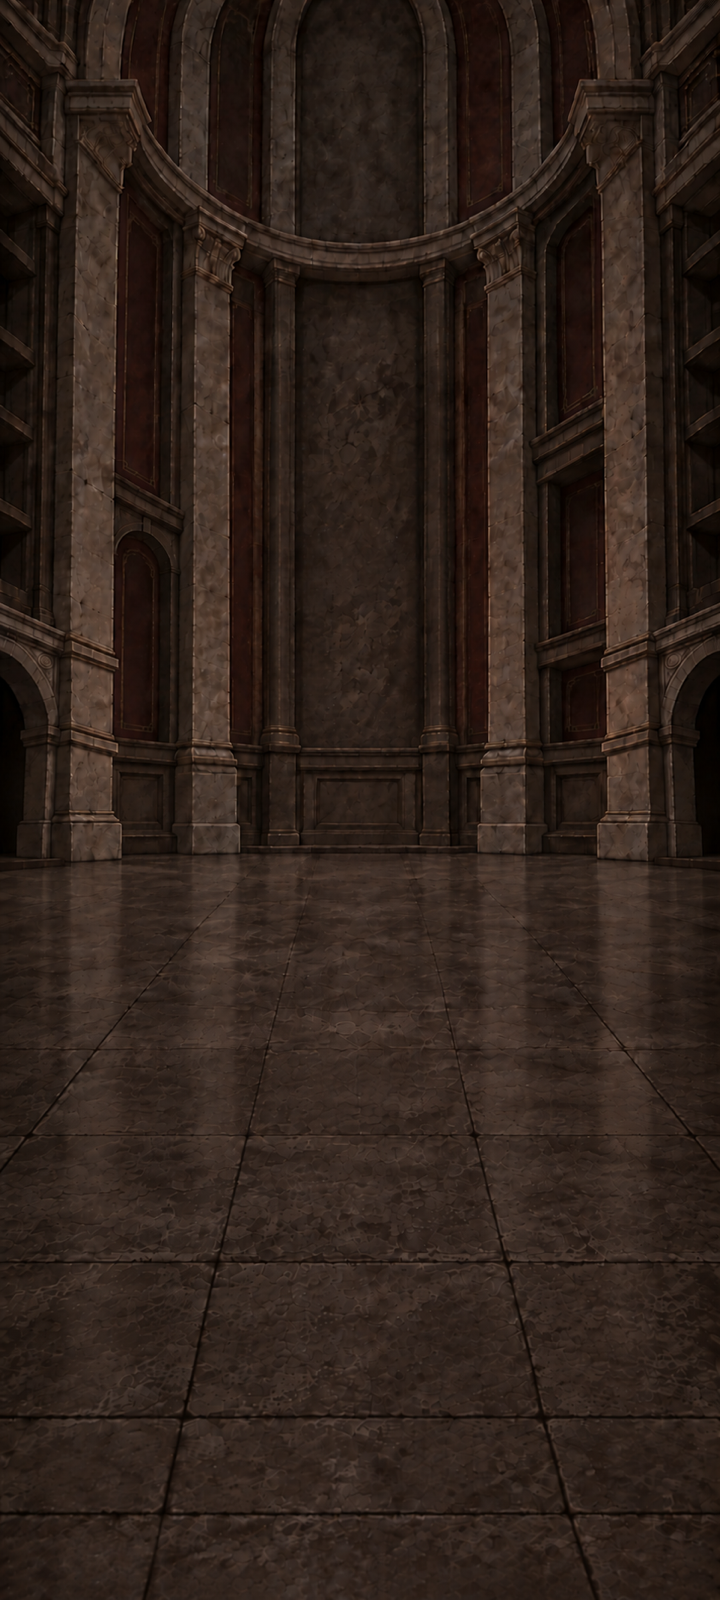
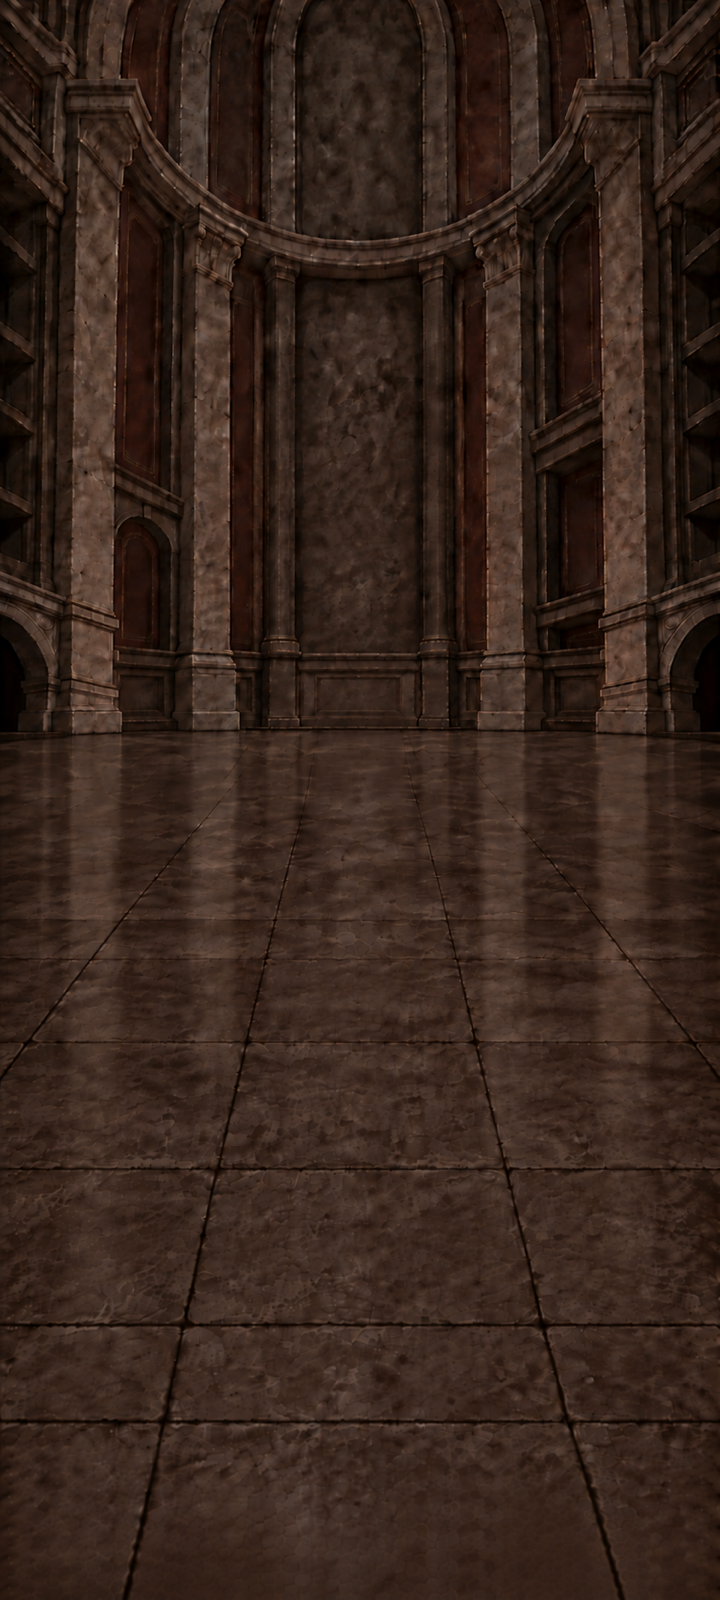
Align Wing floor with table placement

diff --git a/Documentation/CelestialDial/WING-SCENE-PASS-2026-09-19.md b/Documentation/CelestialDial/WING-SCENE-PASS-2026-09-19.md
@@ -6,7 +6,7 @@ Followed the approved Ascendant art direction (ClickUp Doc `2kyd583p-6954`, Deci
 
 ## Visual assessment
 
-The baseline phone capture is [`390-wing-room.png`](Evidence/atrium-pass-2026-09-18/390-wing-room.png).
+The original 390 px phone capture is [`390-wing-room.png`](Evidence/atrium-pass-2026-09-18/390-wing-room.png). It shows the room before this Wing slot art pass.
 
 1. `wing.png` put a large zodiac disc and phoenix tapestry behind the fixed Dial position. The detailed imagery competed with the Dial and made the central slot look pasted on.
 2. The wall and floor had no quiet landing areas at the fixed shelf, table, and chair positions. Contact shadows and floor perspective did not support the props.
@@ -22,7 +22,7 @@ Only the six approved named art slots were changed or populated:
 
 | Slot | Imported size | Correction |
 | --- | ---: | --- |
-| `wing.png` | 720 × 1600 | Frontal, quiet stone room; plain central wall; left arch retained; floor junction placed behind the fixed table footprint; muted, shadow-led palette; no golden-hour light or mural. |
+| `wing.png` | 720 × 1600 | Frontal, quiet stone room; plain central wall; left arch retained; wall-to-floor seam raised to about 45% of the image so it meets the fixed table footprint at phone scale; muted, shadow-led palette; no golden-hour light or mural. |
 | `dial-face.png` | 664 × 664 | Dark muted circular Phoenix plate; fully transparent pixels outside its circle. |
 | `shelf.png` | 100 × 72 | Compact aged-wood and iron wall shelf. |
 | `shelf-book.png` | 20 × 52 | Single restrained oxblood book with pale page edge; used by the existing Wing and Stage 4 Atrium shelf slots. |
@@ -33,11 +33,11 @@ No code, layout, text, light overlays, or other game systems changed. Unity gene
 
 ## Review and validation
 
-- Reviewed the local WebGL build through the 390 × 844 and 360 × 800 browser viewport settings. At 390 × 844, reviewed the Wing Dial view after the replacement face imported. At 360 × 800, reviewed the Atrium phone composition and the style page. The style page reports 19 of 30 art slots populated and lists all six target slots as `file`.
-- The target-size shelf-book is present in the existing Atrium slot and is visible in the style-page thumbnail at its specified 10 × 26 display size. The late Stage 4 progression state was not reached during this focused visual pass; the actual Stage 4 in-scene overlap remains to be checked.
-- Clean Unity `Library` import and the shared `Ascendant.Build.WebBuild.Build` WebGL entry point completed on Unity 6000.3.24f1. Build summary: succeeded, 0 errors, 0 warnings; output 17,689,535 bytes. Required output files are present in the ignored local `Builds/Web` folder.
-- The current WebGL output was served only from localhost. Production was not changed.
+- The final local WebGL build was reviewed in the actual Wing room at 390 × 844 and 360 × 800. The raised seam meets the table footprint at both sizes. Final captures: [`390-wing-after.png`](Evidence/wing-pass-2026-09-19/390-wing-after.png) and [`360-wing-after.png`](Evidence/wing-pass-2026-09-19/360-wing-after.png). Captures immediately before the floor-contact refinement: [`390-wing-before-seam.png`](Evidence/wing-pass-2026-09-19/390-wing-before-seam.png) and [`360-wing-before-seam.png`](Evidence/wing-pass-2026-09-19/360-wing-before-seam.png).
+- The full repository browser validation recorded 262 passing checks across 390 × 844 and 360 × 800. It explicitly reached and asserted the Stage 4 Atrium return at each size. The shelf-book slot is unchanged by the final background edit; its three-book Atrium display is visible in later-stage captures [`390-atrium-books.png`](Evidence/wing-pass-2026-09-19/390-atrium-books.png) and [`360-atrium-books.png`](Evidence/wing-pass-2026-09-19/360-atrium-books.png). The style page reports 19 of 30 art slots populated and lists all six target slots as `file`.
+- A clean Unity `Library` import and shared `Ascendant.Build.WebBuild.Build` completed on Unity 6000.3.24f1. After the final seam edit, Unity re-imported the background and rebuilt WebGL. Final build summary: succeeded, 0 errors, 0 warnings; output 17,692,562 bytes. Required output files are present in ignored local `Builds/Web`.
+- The complete browser validation ran before the last background-only seam refinement; the final build then passed a focused Wing-room capture at both requested phone sizes. The Stage 4 verification exercised the same unchanged shelf-book art and game logic. The WebGL output was served only from localhost. Production was not changed.
 
 ## Review evidence
 
-Baseline phone capture: [`390-wing-room.png`](Evidence/atrium-pass-2026-09-18/390-wing-room.png). The corresponding 390 px post-import Wing screenshot and the 360 px Atrium/style-page screenshots were reviewed in the task browser; they are not stored as repo artifacts. The 360 px pass did not reproduce the same late Wing room state, so screenshots should not be treated as a same-scene before/after pair.
+The before-and-after pairs show the seam refinement in the same Wing-room scene at both phone sizes. The earlier 390 px capture linked above shows the full slot-art pass against the original background. The Atrium book captures show the books after the Stage 4 return, at a later stage when they remain visible on the shelves.
